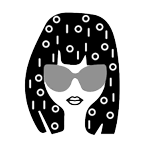
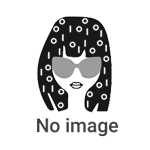
User management - added profile images to user list - random colours for users without an image

diff --git a/Sources/App/Common/Extensions/PFColorHash.swift b/Sources/App/Common/Extensions/PFColorHash.swift
@@ -1,0 +1,125 @@
+//
+//  PFColorHash.swift
+//  PFColorHash
+//
+//  Created by Cee on 20/08/2015.
+//  Copyright (c) 2015 Cee. All rights reserved.
+//
+
+import Foundation
+
+open class PFColorHash {
+    
+    lazy var lightness: [Double] = [0.35, 0.5, 0.65]
+    
+    lazy var saturation: [Double] = [0.35, 0.5, 0.65]
+    
+    lazy var hash = { (_ str: String) -> Int64 in
+        let seed1: Int64 = 131
+        let seed2: Int64 = 137
+        var ret: Int64 = 0
+        let hashString = str + "x"
+        var constantInt: Int64 = 9007199254740991   // pow(2, 53) - 1
+        let maxSafeInt: Int64 = constantInt / seed2
+        for element in hashString.characters {
+            if (ret > maxSafeInt) {
+                ret = ret / seed2
+            }
+            ret = ret * seed1 + Int64(element.unicodeScalarCodePoint())
+        }
+        return ret
+    }
+    
+    // MARK: Init Methods
+    init() {}
+    
+    init(lightness: [Double]) {
+        self.lightness = lightness
+    }
+    
+    init(saturation: [Double]) {
+        self.saturation = saturation
+    }
+    
+    init(lightness: [Double], saturation: [Double]) {
+        self.lightness = lightness
+        self.saturation = saturation
+    }
+    
+    init(hash: @escaping (String) -> Int64) {
+        self.hash = hash
+    }
+    
+    // MARK: Public Methods
+    final func hsl(_ str: String) -> (h: Double, s: Double, l: Double) {
+        var hashValue: Int64 = hash(str)
+        let h = hashValue % 359
+        
+        hashValue = hashValue / 360
+        var count: Int64 = Int64(saturation.count)
+        var index = Int(hashValue % count)
+        let s = saturation[index]
+        
+        hashValue = hashValue / count
+        count = Int64(lightness.count)
+        index = Int(hashValue % count)
+        let l = lightness[index]
+        
+        return (Double(h), Double(s), Double(l))
+    }
+    
+    
+    final func rgb(_ str: String) -> (r: Int, g: Int, b: Int) {
+        let hslValue = hsl(str)
+        return hsl2rgb(hslValue.h, s: hslValue.s, l: hslValue.l)
+    }
+    
+    final func hex(_ str: String) -> String {
+        let rgbValue = rgb(str)
+        return rgb2hex(rgbValue.r, g: rgbValue.g, b: rgbValue.b)
+    }
+    
+    // MARK: Private Methods
+    fileprivate final func hsl2rgb(_ h: Double, s: Double, l:Double) -> (r: Int, g: Int, b: Int) {
+        let hue = h / 360
+        let q = l < 0.5 ? l * (1 + s) :l + s - l * s
+        let p = 2 * l - q
+        let array = [hue + 1/3, hue, hue - 1/3].map({ (color: Double) -> Int in
+            var ret = color
+            if (ret < 0) {
+                ret = ret + 1
+            }
+            if (ret > 1) {
+                ret = ret - 1
+            }
+            if (ret < 1 / 6) {
+                ret = p + (q - p) * 6 * ret
+            } else if (ret < 0.5) {
+                ret = q
+            } else if (ret < 2 / 3) {
+                ret = p + (q - p) * 6 * (2 / 3 - ret)
+            } else {
+                ret = p
+            }
+            return Int(ret * 255)
+            }
+        )
+        return (array[0], array[1], array[2])
+    }
+    
+    fileprivate final func rgb2hex(_ r: Int, g: Int, b: Int) -> String {
+        return String(format:"%X", r) + String(format:"%X", g) + String(format:"%X", b)
+    }
+}
+
+// MARK: Character To ASCII
+extension Character
+{
+    func unicodeScalarCodePoint() -> Int
+    {
+        let characterString = String(self)
+        let scalars = characterString.unicodeScalars
+        
+        return Int(scalars[scalars.startIndex].value)
+    }
+}

diff --git a/Sources/App/Web/Controllers/UsersController.swift b/Sources/App/Web/Controllers/UsersController.swift
@@ -9,14 +9,35 @@ public final class UsersController {
         self.view = view
     }
 
-    //Show User
     func showUser(request: Request) throws -> ResponseRepresentable {
-
         let users = try User.all()
         return try render("Users/users", ["users": users], for: request, with: view)
     }
+    
+    func image(request: Request) throws -> ResponseRepresentable {
+        let user = try request.parameters.next(User.self)
+        if !user.hasImage {
+            return try Response(filePath: "Public/images/profile-placeholder.png")
+        }
+        let fileSystem = FileSystem()
+        return try Response(filePath: fileSystem.userProfileImagePath(user: user))
+    }
+    
+    func addForm(request: Request) throws -> ResponseRepresentable {
+        return try render("Users/add-users", for: request, with: view)
+    }
+    
+    func add(request: Request) throws -> ResponseRepresentable {
+        guard let data = request.data["users_raw"]?.string else {
+                throw Abort.badRequest
+        }
+        
+        // TODO: implement csv parsing
+        
+        return Response(redirect: "/users")
+    }
 
-    //Edit
+
     func editForm(request: Request) throws -> ResponseRepresentable {
         let userID = try request.parameters.next(Int.self)
         let user = try User.find(userID)
@@ -46,7 +67,6 @@ public final class UsersController {
         return Response(redirect: "/users")
     }
 
-    //Delete
     func deleteForm(request: Request) throws -> ResponseRepresentable {
         let userID = try request.parameters.next(Int.self)
         let user = try User.find(userID)
@@ -61,6 +81,5 @@ public final class UsersController {
 
         return Response(redirect: "/users")
     }
-
 
 }

diff --git a/Sources/App/Web/Routes/TeacherRoutes.swift b/Sources/App/Web/Routes/TeacherRoutes.swift
@@ -12,7 +12,6 @@ final class TeacherRoutes: RouteCollection {
         let eventsController = EventsController(view)
         let submissionsController = SubmissionsController(view)
         let userController = UsersController(view)
-        let loginController = LoginController(view)
 
         /// EVENTS
 
@@ -41,6 +40,8 @@ final class TeacherRoutes: RouteCollection {
         /// USER MANAGEMENT
 
         builder.get("users", handler: userController.showUser)
+        builder.get("users", "new", handler: userController.addForm)
+        builder.post("users", "new", handler: userController.add)
         builder.get("users", Int.parameter, "edit", handler: userController.editForm)
         builder.post("users", Int.parameter, "edit", handler: userController.edit)
         builder.get("users", Int.parameter, "delete", handler: userController.deleteForm)

diff --git a/Sources/App/Web/Routes/ProtectedRoutes.swift b/Sources/App/Web/Routes/ProtectedRoutes.swift
@@ -26,6 +26,9 @@ final class ProtectedRoutes: RouteCollection {
         
         builder.get("events", Event.parameter, "problems", Int.parameter, handler: problemsController.form)
         builder.post("events", Event.parameter, "problems", Int.parameter, handler: problemsController.submit)
+        
+        let userController = UsersController(view)
+        builder.get("users", User.parameter, "image", handler: userController.image)
     }
 }
 

diff --git a/Public/styles/app.css b/Public/styles/app.css
@@ -117,3 +117,21 @@ img.profile {
     width: 150px;
     height: 150px;
 }
+
+.profile-tiny {
+    border-radius: 50%;
+    width: 24px;
+    height: 24px;
+    margin: 0 4px;
+}
+.profile-tiny:first-child {
+    margin-left: 0px;
+}
+div.profile-tiny {
+    display: inline-block;
+    background-color: #ccc;
+    margin-bottom: -4px;
+}
+img.profile-tiny {
+    margin-top: -2px;
+}

diff --git a/Sources/App/Common/Models/User.swift b/Sources/App/Common/Models/User.swift
@@ -69,7 +69,9 @@ extension User: NodeRepresentable {
         try node.set("email", email)
         try node.set("username", username)
         try node.set("role", role.rawValue)
+        try node.set("roleName", role.string)
         try node.set("hasImage", hasImage)
+        try node.set("color", PFColorHash().hex(name))
         return node
     }
 }

diff --git a/Sources/App/Common/Security/Role.swift b/Sources/App/Common/Security/Role.swift
@@ -23,3 +23,17 @@ extension Role {
     }
     
 }
+
+extension Role {
+    
+    var string: String {
+        switch self {
+        case .student:
+            return "Student"
+        case .teacher:
+            return "Teacher"
+        case .admin:
+            return "Administrator"
+        }
+    }
+}
